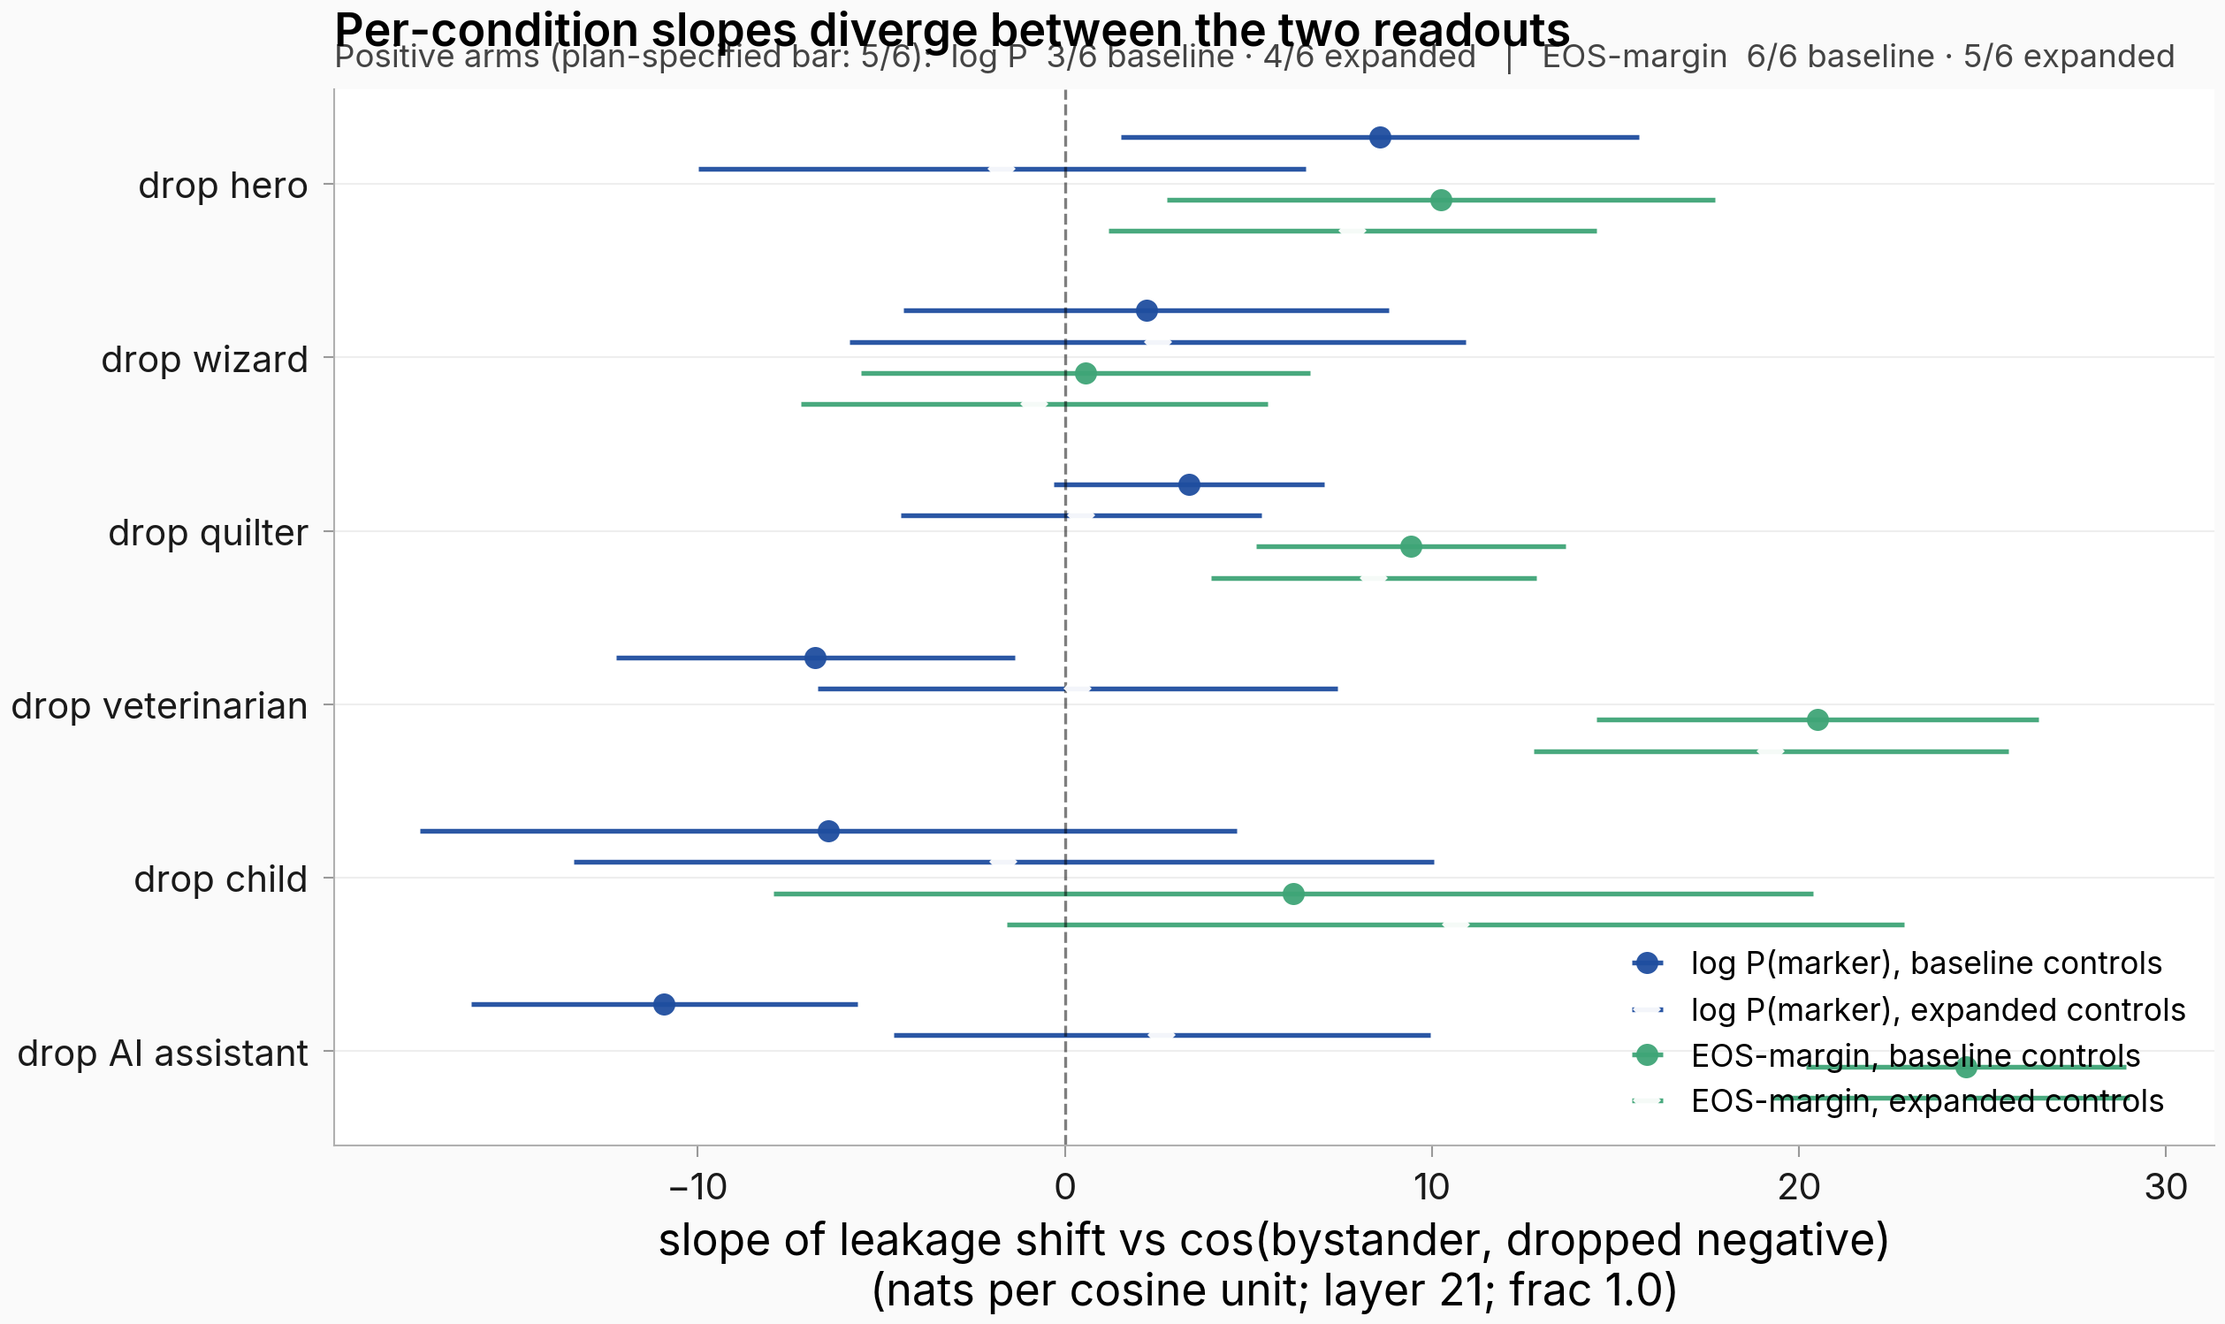
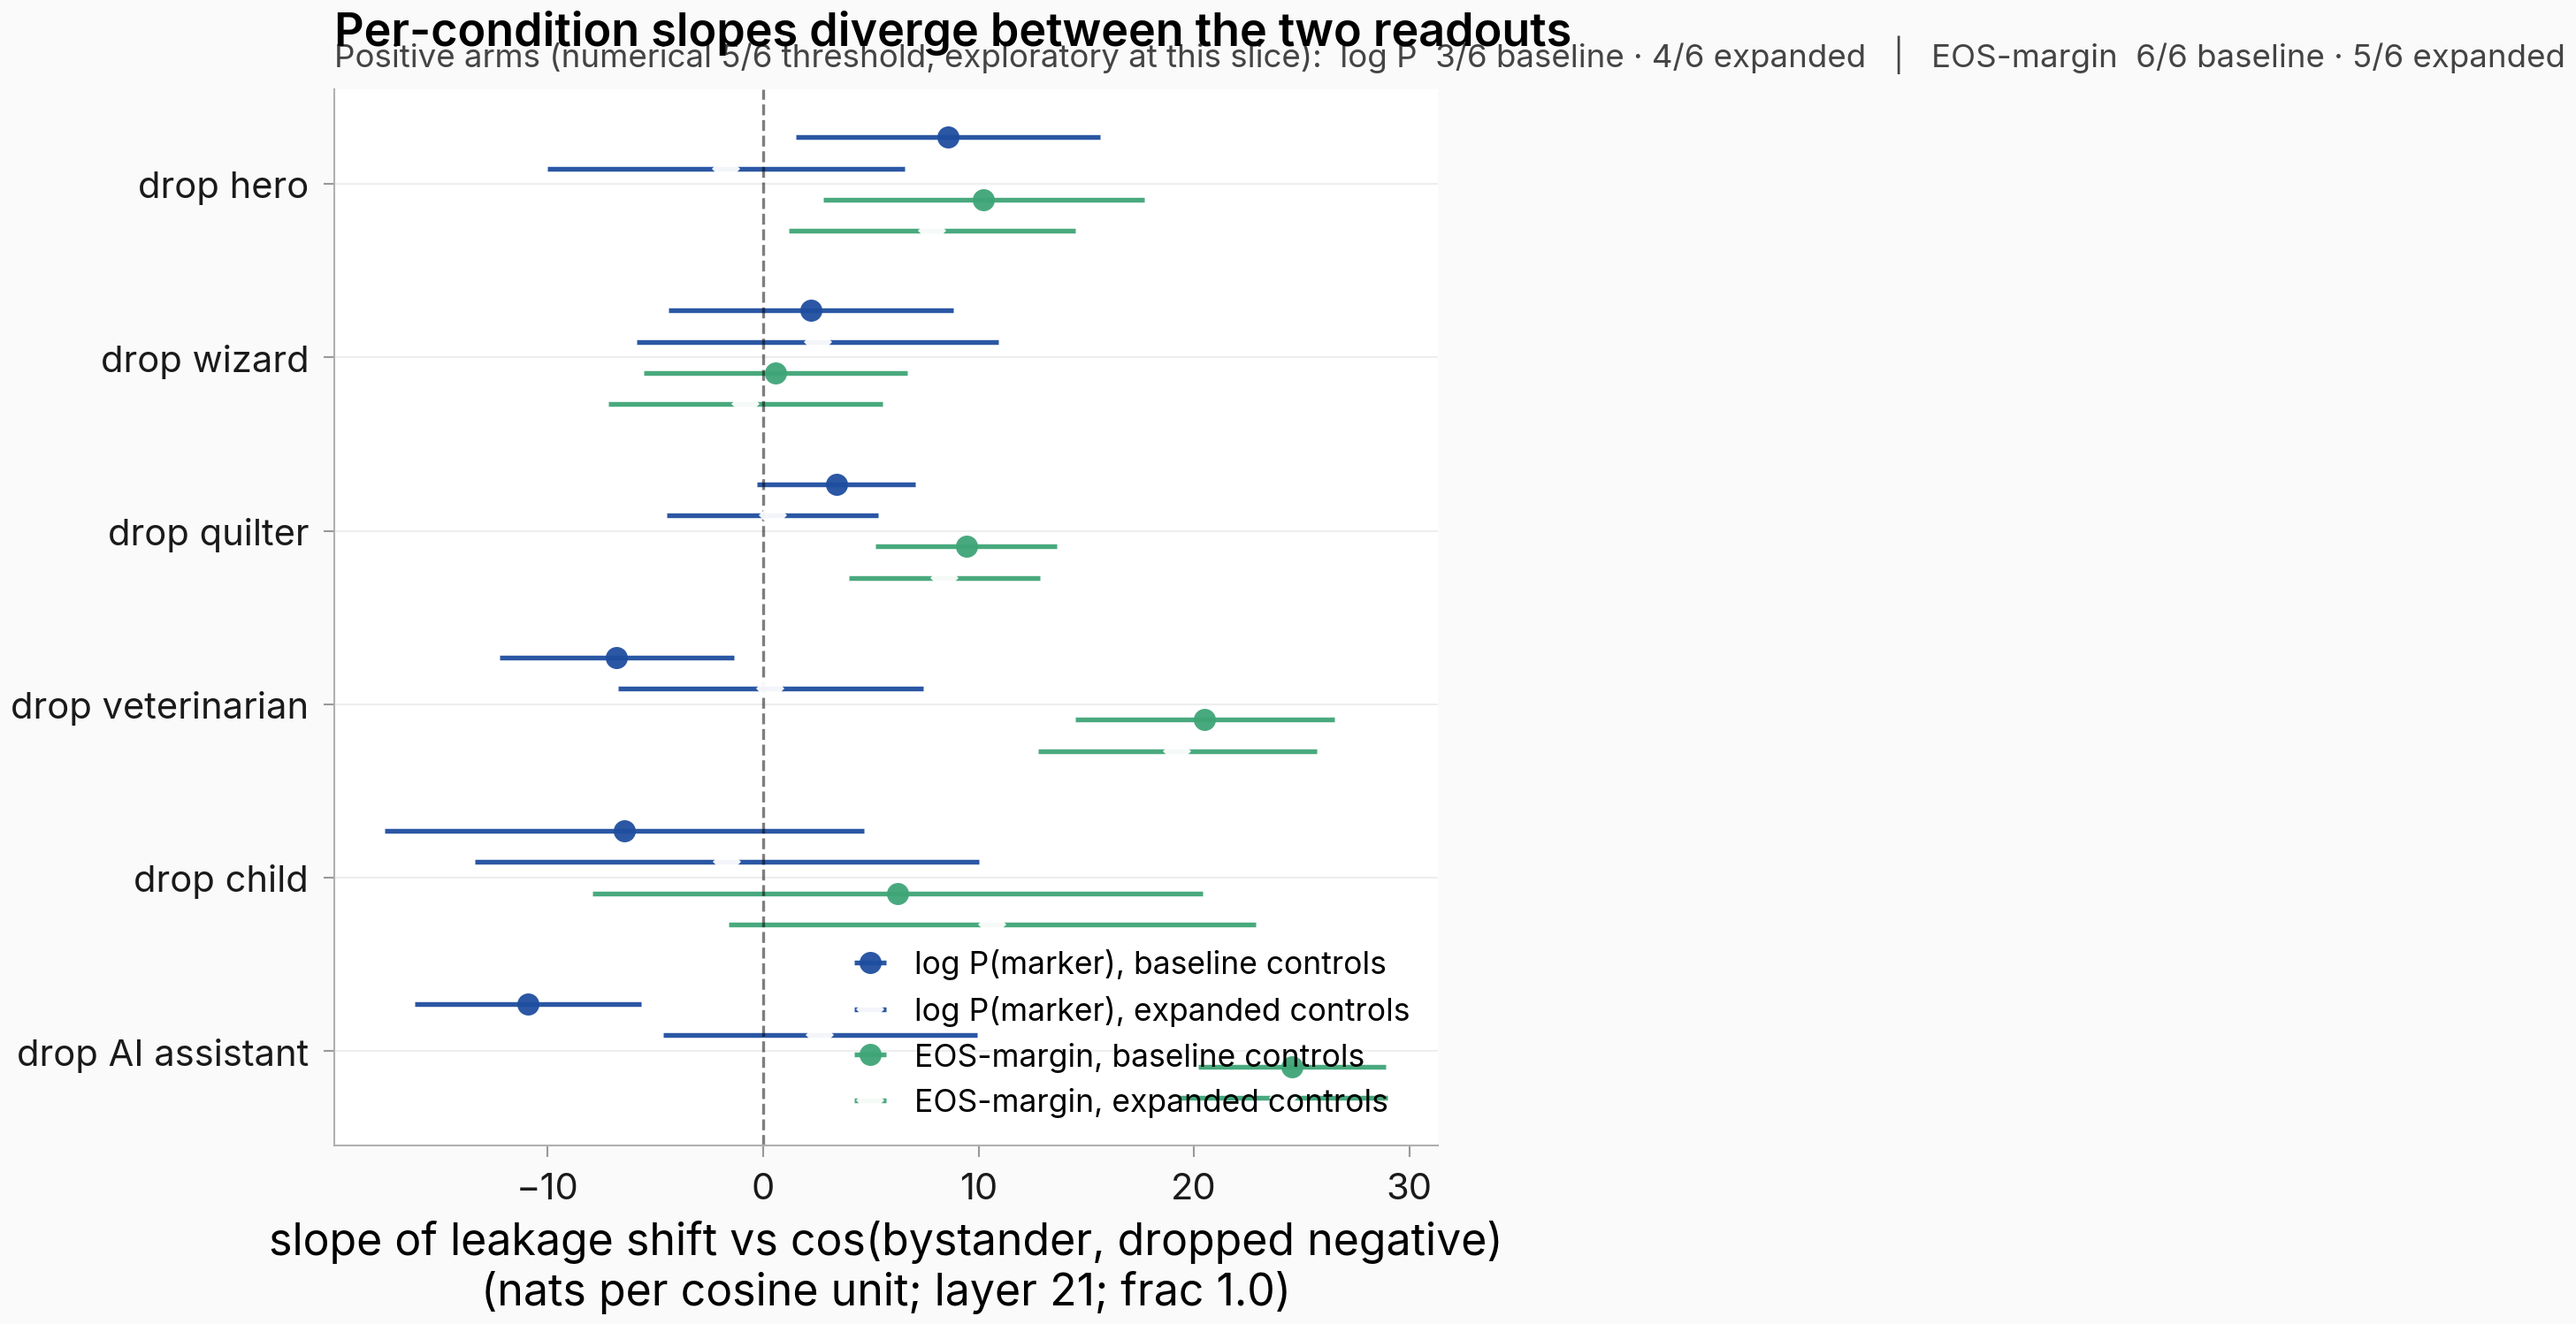
task #505 r2: figure subtitle — drop 'plan-specified' framing for EOS-margin (round-2 revise)

diff --git a/scripts/issue505_r2_figure.py b/scripts/issue505_r2_figure.py
@@ -166,7 +166,7 @@ def main() -> None:
         0.0,
         1.015,
         (
-            f"Positive arms (plan-specified bar: 5/6):  "
+            f"Positive arms (numerical 5/6 threshold, exploratory at this slice):  "
             f"log P  {sign_logp_base}/6 baseline · {sign_logp_exp}/6 expanded   "
             f"|   EOS-margin  {sign_margin_base}/6 baseline · {sign_margin_exp}/6 expanded"
         ),
